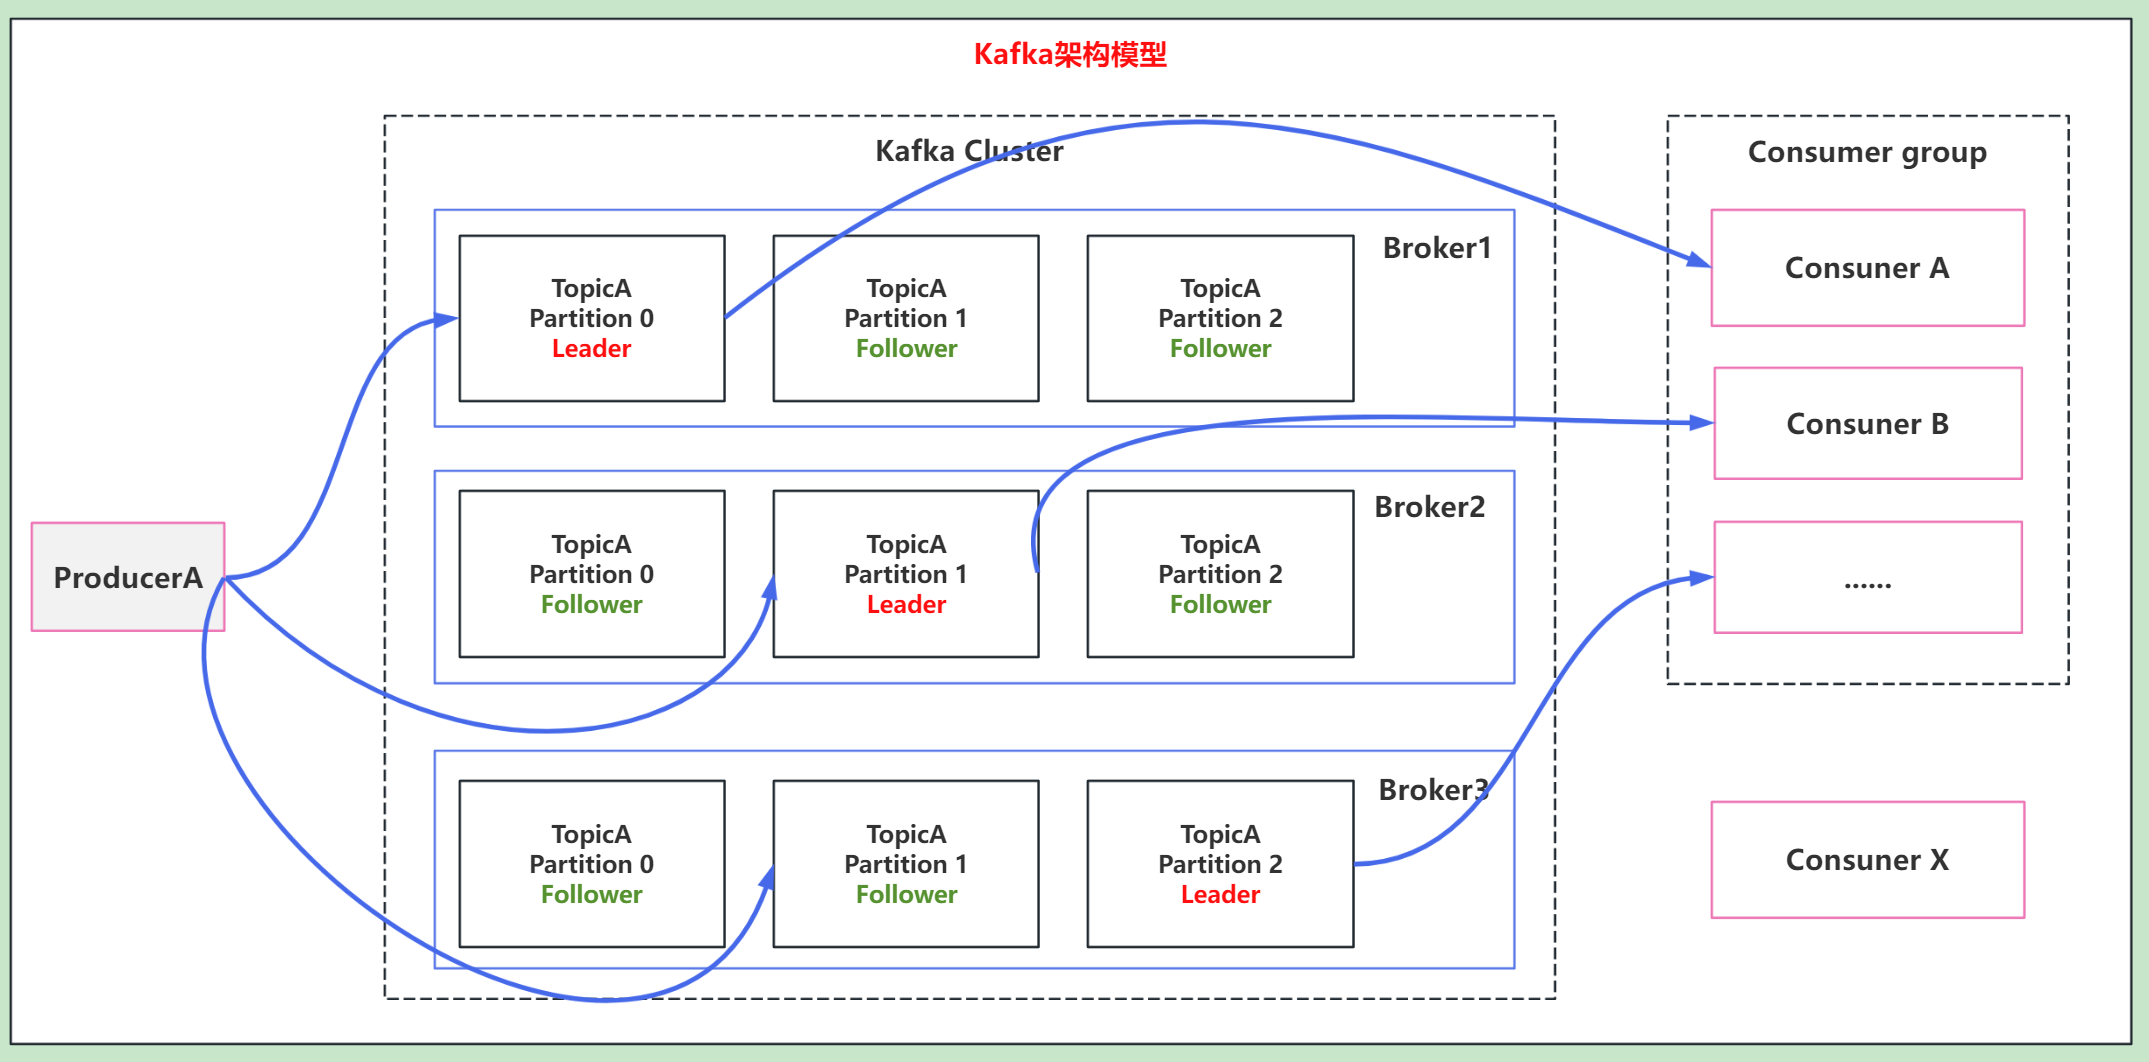
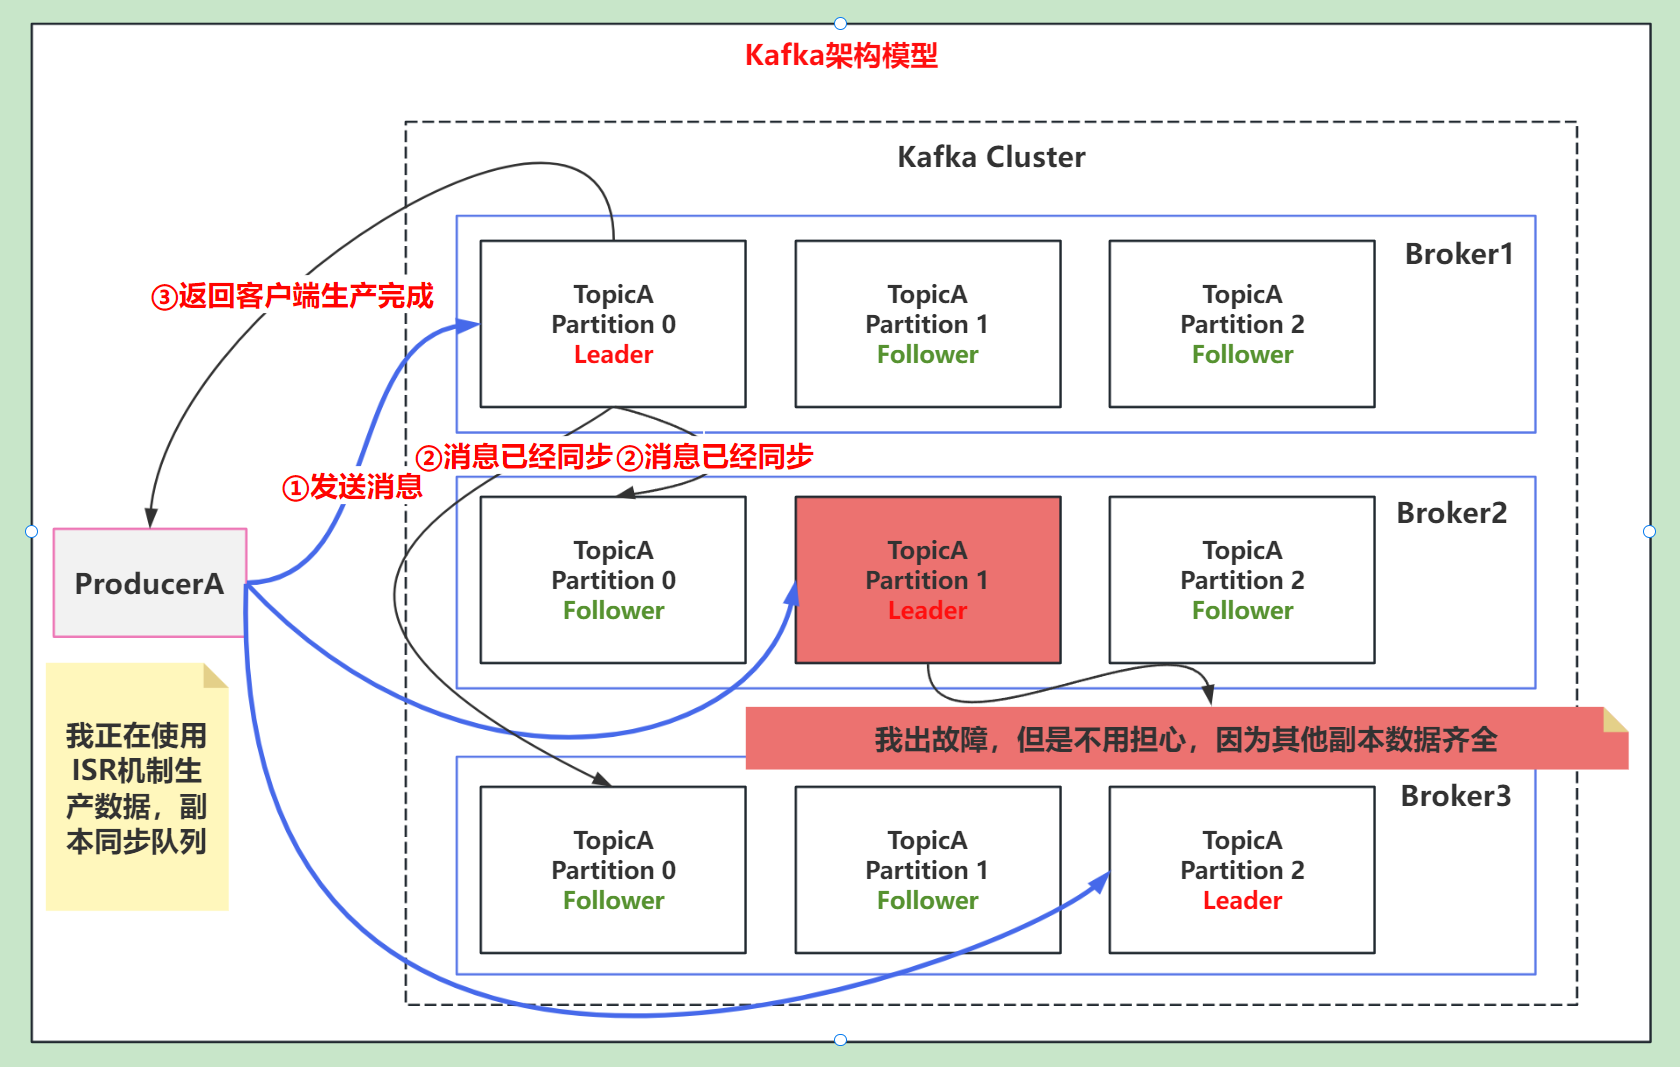
JDK 代理DEMO

Changed region(s): [[0.0, 0.0, 1.0, 0.9944]]

diff --git a/My-Resume/middleware/Kafka.md b/My-Resume/middleware/Kafka.md
@@ -5,7 +5,7 @@
 - 消息队列：比如双11下单的场景下：削峰填谷，使得消息能稳定的处理，不亏冲垮服务。
 
 # 2. Kafka架构模型
-![img_12.png](img_12.png)
+![img_10.png](img_10.png)
 
 - Producer ：消息生产者。
 - Consumer ：消息消费者。
@@ -21,21 +21,25 @@
 kafka只保证在一个partition下按照offset消费的顺序性，而不保证一个topic多个partition下消费的顺序性。
 
 **<h3>Solution：</h3>**
-- 将所有消息都生产到同一个partition。
+1. 一个Topic下只有一个分区，这样就不会乱序了。但是这样就失去了Kafka的并行处理能力。
+2. 自定义一个消费算法，将指定的key发到同一个partition，指定的消费者消费指定的partition。
 
 ## 3.1 Kafka为什么消费顺序会乱？
 而生产者生产的消息，按照（轮训、hash key、随机策略）进行分配给多个partition，所以在一个topic下消息会乱。
 
+![img_13.png](img_13.png)
 
+# 4. Kafka数据一致性怎么保证？ （服务宕机时的数据一致性如何保证？）
 
+**<h3>Kafka数据一致性问题：</h3>** 当leader宕机时，重新选举出的副本数据可能缺失。
 
+![Kafka数据一致性问题](img_11.png)
 
+使用ISR（In-Sync Replicas 副本同步队列）机制来保证副本之间的数据一致性。
+(生产消息到Topic中时，需要将消息加入到所有副本后再进行返回客户端，生产完成)
 
+![img_12.png](img_12.png)
 
-
-# Kafka 如何保证消息消费的顺序性？
-产生乱序的原因：
-比如一个Topic下，有多个分区。而生产者产生的消息，被（轮训、随机、hash key的策略）分配给不同的分区。导致消费消息的顺序乱了。
 
 # Kafka 如何保证消息不丢失？
 这个就要涉及到Kafka的三者关系：生产者、消费者、Broker，以及Kafka的消息存储机制。
@@ -58,11 +62,6 @@ Kafka中记录消费主要是通过offset来记录的。
 4. 异步处理业务提前提交offset，但是要通过中间件缓存，可以重新消费。
 5. 通过幂等性来解决，比如分布式锁、数据库唯一ID等
 
-
-
-解决方案：
-1. 一个Topic下只有一个分区，这样就不会乱序了。但是这样就失去了Kafka的并行处理能力。
-2. 自定义一个消费算法，将指定的key发到同一个partition，指定的消费者消费指定的partition。
 
 # kafka怎么保证生产有且仅有一次？
 通过幂等性来解决，
